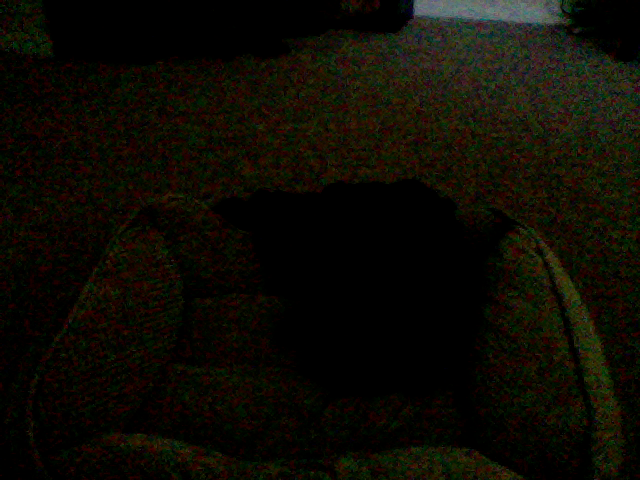
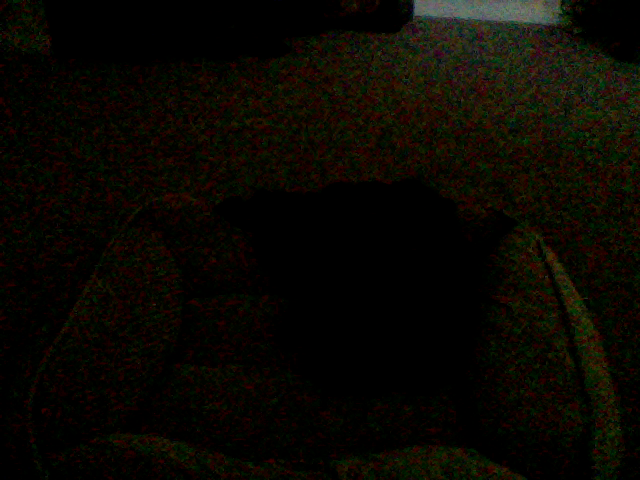
update at Month05Day08Time19:26

diff --git a/index.html b/index.html
@@ -39,8 +39,8 @@
       <!-- Example row of columns -->
       <div class="row">
         <div class="col-md-4">
-	<p>This picture was updated at Month05Day08Time19:25</p>
-		<img src="4_pic.png" />
+	<p>This picture was updated at Month05Day08Time19:26</p>
+		<img src="2_pic.png" />
         </div>
       </div>
 
